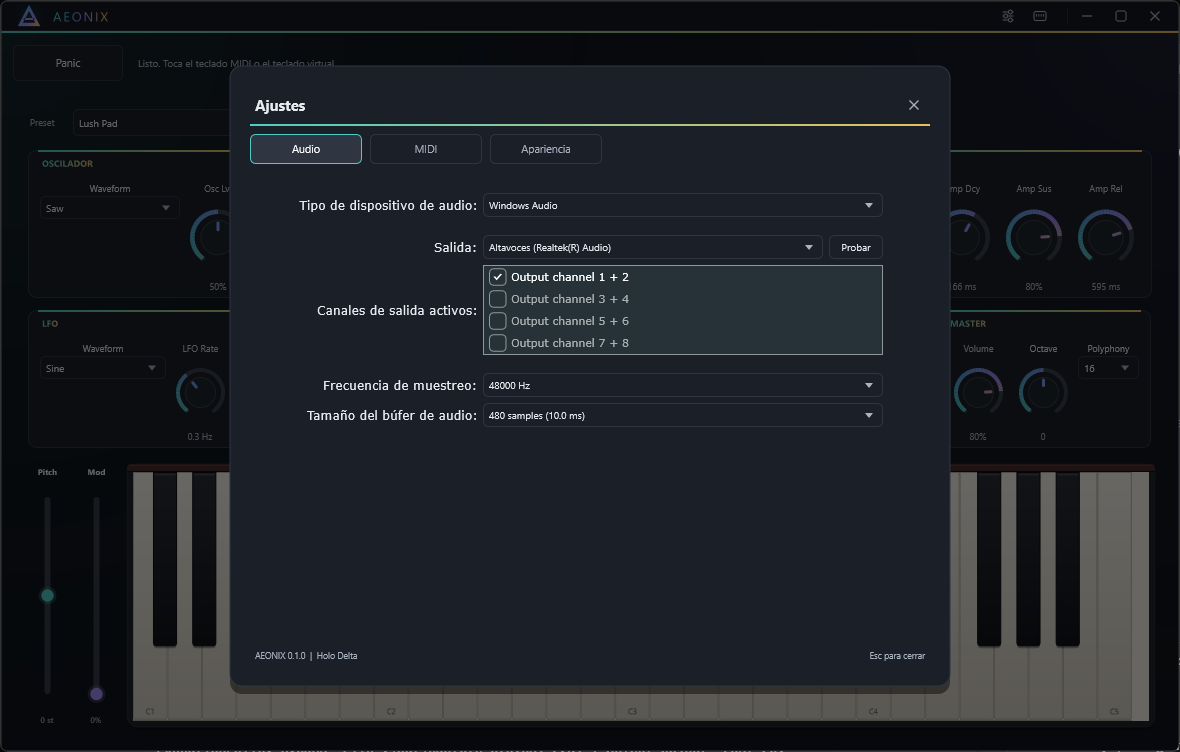
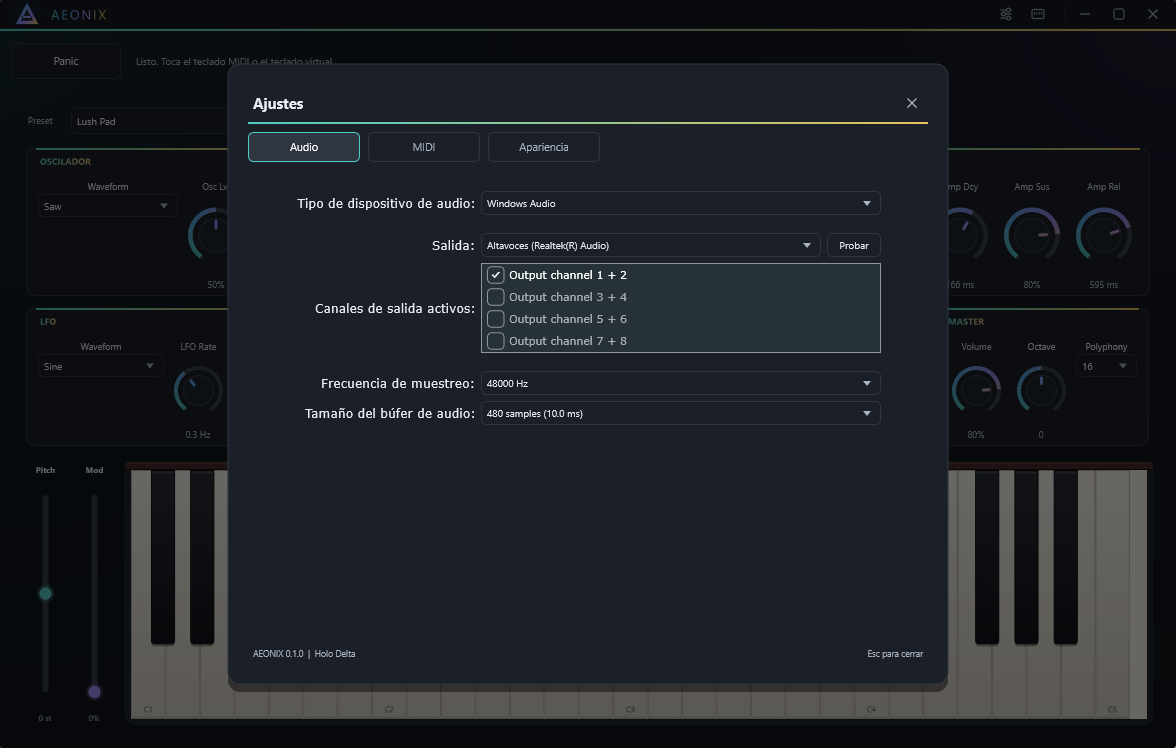
site: trim the window border from the screenshots

diff --git a/site/index.html b/site/index.html
@@ -141,11 +141,11 @@
             <span class="app-frame__tag">0.1.0</span>
           </div>
           <img src="assets/captures/hero.png"
-               width="1320" height="790" fetchpriority="high" decoding="async"
+               width="1316" height="786" fetchpriority="high" decoding="async"
                alt="Interfaz de AEONIX: barra de preset, secciones de síntesis, teclado virtual y controles de efectos."
                data-i18n-alt="hero.alt">
         </div>
-        <figcaption data-i18n="hero.caption">Superficie principal con texto Muy grande (1320 × 790). Captura de AEONIX 0.1.0, build PRO.</figcaption>
+        <figcaption data-i18n="hero.caption">Superficie principal con texto Muy grande (1316 × 786). Captura de AEONIX 0.1.0, build PRO.</figcaption>
       </figure>
     </div>
   </section>
@@ -277,7 +277,7 @@
                   data-title-key="shot.1.title" data-meta-key="shot.1.meta" data-alt-key="shot.1.alt"
                   aria-label="Ampliar captura: superficie principal" data-i18n-aria-label="shot.1.open">
             <img src="assets/captures/main-normal.png"
-                 width="1180" height="752" loading="lazy" decoding="async"
+                 width="1176" height="748" loading="lazy" decoding="async"
                  alt="Superficie principal de AEONIX con texto Normal." data-i18n-alt="shot.1.alt">
             <span class="shot__zoom" aria-hidden="true">
               <svg class="icon" viewBox="0 0 24 24"><path d="M9 4H4v5M15 4h5v5M20 15v5h-5M4 15v5h5"/></svg>
@@ -285,7 +285,7 @@
           </button>
           <figcaption>
             <span class="shot__title" data-i18n="shot.1.title">Superficie principal</span>
-            <span class="shot__meta" data-i18n="shot.1.meta">Texto Normal · 1180 × 752</span>
+            <span class="shot__meta" data-i18n="shot.1.meta">Texto Normal · 1176 × 748</span>
           </figcaption>
         </figure>
 
@@ -294,7 +294,7 @@
                   data-title-key="shot.2.title" data-meta-key="shot.2.meta" data-alt-key="shot.2.alt"
                   aria-label="Ampliar captura: texto Grande" data-i18n-aria-label="shot.2.open">
             <img src="assets/captures/main-large.png"
-                 width="1220" height="770" loading="lazy" decoding="async"
+                 width="1216" height="766" loading="lazy" decoding="async"
                  alt="Superficie de AEONIX con texto Grande." data-i18n-alt="shot.2.alt">
             <span class="shot__zoom" aria-hidden="true">
               <svg class="icon" viewBox="0 0 24 24"><path d="M9 4H4v5M15 4h5v5M20 15v5h-5M4 15v5h5"/></svg>
@@ -302,7 +302,7 @@
           </button>
           <figcaption>
             <span class="shot__title" data-i18n="shot.2.title">Texto Grande</span>
-            <span class="shot__meta" data-i18n="shot.2.meta">1220 × 770</span>
+            <span class="shot__meta" data-i18n="shot.2.meta">1216 × 766</span>
           </figcaption>
         </figure>
 
@@ -311,7 +311,7 @@
                   data-title-key="shot.3.title" data-meta-key="shot.3.meta" data-alt-key="shot.3.alt"
                   aria-label="Ampliar captura: gestor de presets" data-i18n-aria-label="shot.3.open">
             <img src="assets/captures/preset-manager.png"
-                 width="1180" height="752" loading="lazy" decoding="async"
+                 width="1176" height="748" loading="lazy" decoding="async"
                  alt="Gestor de presets de AEONIX con búsqueda, filtros y favoritos." data-i18n-alt="shot.3.alt">
             <span class="shot__zoom" aria-hidden="true">
               <svg class="icon" viewBox="0 0 24 24"><path d="M9 4H4v5M15 4h5v5M20 15v5h-5M4 15v5h5"/></svg>
@@ -328,7 +328,7 @@
                   data-title-key="shot.4.title" data-meta-key="shot.4.meta" data-alt-key="shot.4.alt"
                   aria-label="Ampliar captura: búsqueda en la biblioteca" data-i18n-aria-label="shot.4.open">
             <img src="assets/captures/preset-manager-search.png"
-                 width="1180" height="752" loading="lazy" decoding="async"
+                 width="1176" height="748" loading="lazy" decoding="async"
                  alt="Gestor de presets de AEONIX filtrado por la búsqueda lead." data-i18n-alt="shot.4.alt">
             <span class="shot__zoom" aria-hidden="true">
               <svg class="icon" viewBox="0 0 24 24"><path d="M9 4H4v5M15 4h5v5M20 15v5h-5M4 15v5h5"/></svg>
@@ -336,7 +336,7 @@
           </button>
           <figcaption>
             <span class="shot__title" data-i18n="shot.4.title">Búsqueda en la biblioteca</span>
-            <span class="shot__meta" data-i18n="shot.4.meta">Filtro «lead» · 1180 × 752</span>
+            <span class="shot__meta" data-i18n="shot.4.meta">Filtro «lead» · 1176 × 748</span>
           </figcaption>
         </figure>
 
@@ -345,7 +345,7 @@
                   data-title-key="shot.5.title" data-meta-key="shot.5.meta" data-alt-key="shot.5.alt"
                   aria-label="Ampliar captura: ajustes de apariencia" data-i18n-aria-label="shot.5.open">
             <img src="assets/captures/settings-appearance.png"
-                 width="1180" height="752" loading="lazy" decoding="async"
+                 width="1176" height="748" loading="lazy" decoding="async"
                  alt="Ajustes de AEONIX en la pestaña Apariencia, con tema, idioma y tamaño de texto." data-i18n-alt="shot.5.alt">
             <span class="shot__zoom" aria-hidden="true">
               <svg class="icon" viewBox="0 0 24 24"><path d="M9 4H4v5M15 4h5v5M20 15v5h-5M4 15v5h5"/></svg>
@@ -441,7 +441,7 @@
               </div>
               <img id="themeImg"
                    src="assets/captures/theme-accents.png"
-                   width="1180" height="752" loading="lazy" decoding="async"
+                   width="1176" height="748" loading="lazy" decoding="async"
                    alt="Captura de AEONIX con el tema Holo Accents.">
             </div>
             <button class="theme-preview__btn" type="button" id="themeOpen" aria-label="Ampliar captura del tema" data-i18n-aria-label="theme.open">
@@ -452,7 +452,7 @@
           </div>
           <figcaption>
             <span id="themeCaptionFoot">Holo Accents</span>
-            <span data-i18n="themes.previewMeta">1180 × 752 · build PRO</span>
+            <span data-i18n="themes.previewMeta">1176 × 748 · build PRO</span>
           </figcaption>
         </figure>
       </div>
@@ -735,7 +735,7 @@
     <button class="lightbox__nav lightbox__nav--prev" type="button" data-prev-shot aria-label="Captura anterior" data-i18n-aria-label="lightbox.prev">
       <svg class="icon" viewBox="0 0 24 24" aria-hidden="true" focusable="false"><path d="m14 6-6 6 6 6"/></svg>
     </button>
-    <img id="lightboxImg" alt="" width="1180" height="752">
+    <img id="lightboxImg" alt="" width="1176" height="748">
     <button class="lightbox__nav lightbox__nav--next" type="button" data-next-shot aria-label="Captura siguiente" data-i18n-aria-label="lightbox.next">
       <svg class="icon" viewBox="0 0 24 24" aria-hidden="true" focusable="false"><path d="m10 6 6 6-6 6"/></svg>
     </button>

diff --git a/site/app.js b/site/app.js
@@ -35,7 +35,7 @@
       'hero.cta.gallery': 'Ver capturas',
       'hero.note': 'Gratis y open source · Windows 10 y 11 · x64 · 3,5 MB',
       'hero.window': 'Vista principal',
-      'hero.caption': 'Superficie principal con texto Muy grande (1320 × 790). Captura de AEONIX 0.1.0, build PRO.',
+      'hero.caption': 'Superficie principal con texto Muy grande (1316 × 786). Captura de AEONIX 0.1.0, build PRO.',
       'hero.alt': 'Interfaz de AEONIX: barra de preset, secciones de síntesis, teclado virtual y controles de efectos.',
 
       'stats.label': 'Datos del producto',
@@ -75,11 +75,11 @@
       'gallery.lead': 'Capturas reales de AEONIX 0.1.0 en Windows. Pulsa una imagen para ampliarla.',
       'gallery.note': 'Todas las capturas son de la build PRO, sin herramientas de desarrollo.',
       'shot.1.title': 'Superficie principal',
-      'shot.1.meta': 'Texto Normal · 1180 × 752',
+      'shot.1.meta': 'Texto Normal · 1176 × 748',
       'shot.1.alt': 'Superficie principal de AEONIX con texto Normal.',
       'shot.1.open': 'Ampliar captura: superficie principal',
       'shot.2.title': 'Texto Grande',
-      'shot.2.meta': '1220 × 770',
+      'shot.2.meta': '1216 × 766',
       'shot.2.alt': 'Superficie de AEONIX con texto Grande.',
       'shot.2.open': 'Ampliar captura: texto Grande',
       'shot.3.title': 'Gestor de presets',
@@ -87,7 +87,7 @@
       'shot.3.alt': 'Gestor de presets de AEONIX con búsqueda, filtros y favoritos.',
       'shot.3.open': 'Ampliar captura: gestor de presets',
       'shot.4.title': 'Búsqueda en la biblioteca',
-      'shot.4.meta': 'Filtro «lead» · 1180 × 752',
+      'shot.4.meta': 'Filtro «lead» · 1176 × 748',
       'shot.4.alt': 'Gestor de presets de AEONIX filtrado por la búsqueda lead.',
       'shot.4.open': 'Ampliar captura: búsqueda en la biblioteca',
       'shot.5.title': 'Ajustes de apariencia',
@@ -104,7 +104,7 @@
       'themes.title': 'Cuatro acabados, la misma lógica',
       'themes.lead': 'El tema no cambia el layout: cambia la luz. Elige uno para ver la captura.',
       'themes.choose': 'Elige un tema',
-      'themes.previewMeta': '1180 × 752 · build PRO',
+      'themes.previewMeta': '1176 × 748 · build PRO',
       'theme.accents.desc': 'Títulos y líneas con degradado holográfico. El acabado de referencia.',
       'theme.glass.desc': 'Paneles translúcidos, campo de estrellas y brillo violeta en el teclado.',
       'theme.minimal.desc': 'Sin degradados ni translucidez: contraste sobrio y bordes discretos.',
@@ -226,7 +226,7 @@
       'hero.cta.gallery': 'View screenshots',
       'hero.note': 'Free and open source · Windows 10 and 11 · x64 · 3.5 MB',
       'hero.window': 'Main view',
-      'hero.caption': 'Main surface with extra-large text (1320 × 790). Screenshot of AEONIX 0.1.0, PRO build.',
+      'hero.caption': 'Main surface with extra-large text (1316 × 786). Screenshot of AEONIX 0.1.0, PRO build.',
       'hero.alt': 'AEONIX interface: preset bar, synthesis sections, virtual keyboard and effects controls.',
 
       'stats.label': 'Product facts',
@@ -266,11 +266,11 @@
       'gallery.lead': 'Real screenshots of AEONIX 0.1.0 on Windows. Click an image to enlarge it.',
       'gallery.note': 'All screenshots come from the PRO build, without developer tools.',
       'shot.1.title': 'Main surface',
-      'shot.1.meta': 'Normal text · 1180 × 752',
+      'shot.1.meta': 'Normal text · 1176 × 748',
       'shot.1.alt': 'AEONIX main surface with normal text.',
       'shot.1.open': 'Enlarge screenshot: main surface',
       'shot.2.title': 'Large text',
-      'shot.2.meta': '1220 × 770',
+      'shot.2.meta': '1216 × 766',
       'shot.2.alt': 'AEONIX surface with large text.',
       'shot.2.open': 'Enlarge screenshot: large text',
       'shot.3.title': 'Preset manager',
@@ -278,7 +278,7 @@
       'shot.3.alt': 'AEONIX preset manager with search, filters and favorites.',
       'shot.3.open': 'Enlarge screenshot: preset manager',
       'shot.4.title': 'Library search',
-      'shot.4.meta': '“lead” filter · 1180 × 752',
+      'shot.4.meta': '“lead” filter · 1176 × 748',
       'shot.4.alt': 'AEONIX preset manager filtered by the search term lead.',
       'shot.4.open': 'Enlarge screenshot: library search',
       'shot.5.title': 'Appearance settings',
@@ -295,7 +295,7 @@
       'themes.title': 'Four finishes, same logic',
       'themes.lead': "The theme doesn't change the layout, only the light. Pick one to preview.",
       'themes.choose': 'Choose a theme',
-      'themes.previewMeta': '1180 × 752 · PRO build',
+      'themes.previewMeta': '1176 × 748 · PRO build',
       'theme.accents.desc': 'Holographic gradient titles and lines. The reference finish.',
       'theme.glass.desc': 'Translucent panels, a starfield and a violet glow on the keyboard.',
       'theme.minimal.desc': 'No gradients or translucency: sober contrast and discreet borders.',
@@ -395,27 +395,27 @@
     accents: {
       name: 'Holo Accents',
       src: 'assets/captures/theme-accents.png',
-      width: 1180,
-      height: 752
+      width: 1176,
+      height: 748
     },
     glass: {
       name: 'Holo Glass',
       src: 'assets/captures/theme-glass.png',
-      width: 1180,
-      height: 752
+      width: 1176,
+      height: 748
     },
     minimal: {
       name: 'Holo Minimal',
       src: 'assets/captures/theme-minimal.png',
-      width: 1180,
-      height: 752
+      width: 1176,
+      height: 748
     },
     prototype: {
       name: 'Prototipo',
       nameEn: 'Prototype',
       src: 'assets/captures/theme-prototype.png',
-      width: 1180,
-      height: 752
+      width: 1176,
+      height: 748
     }
   };
 
